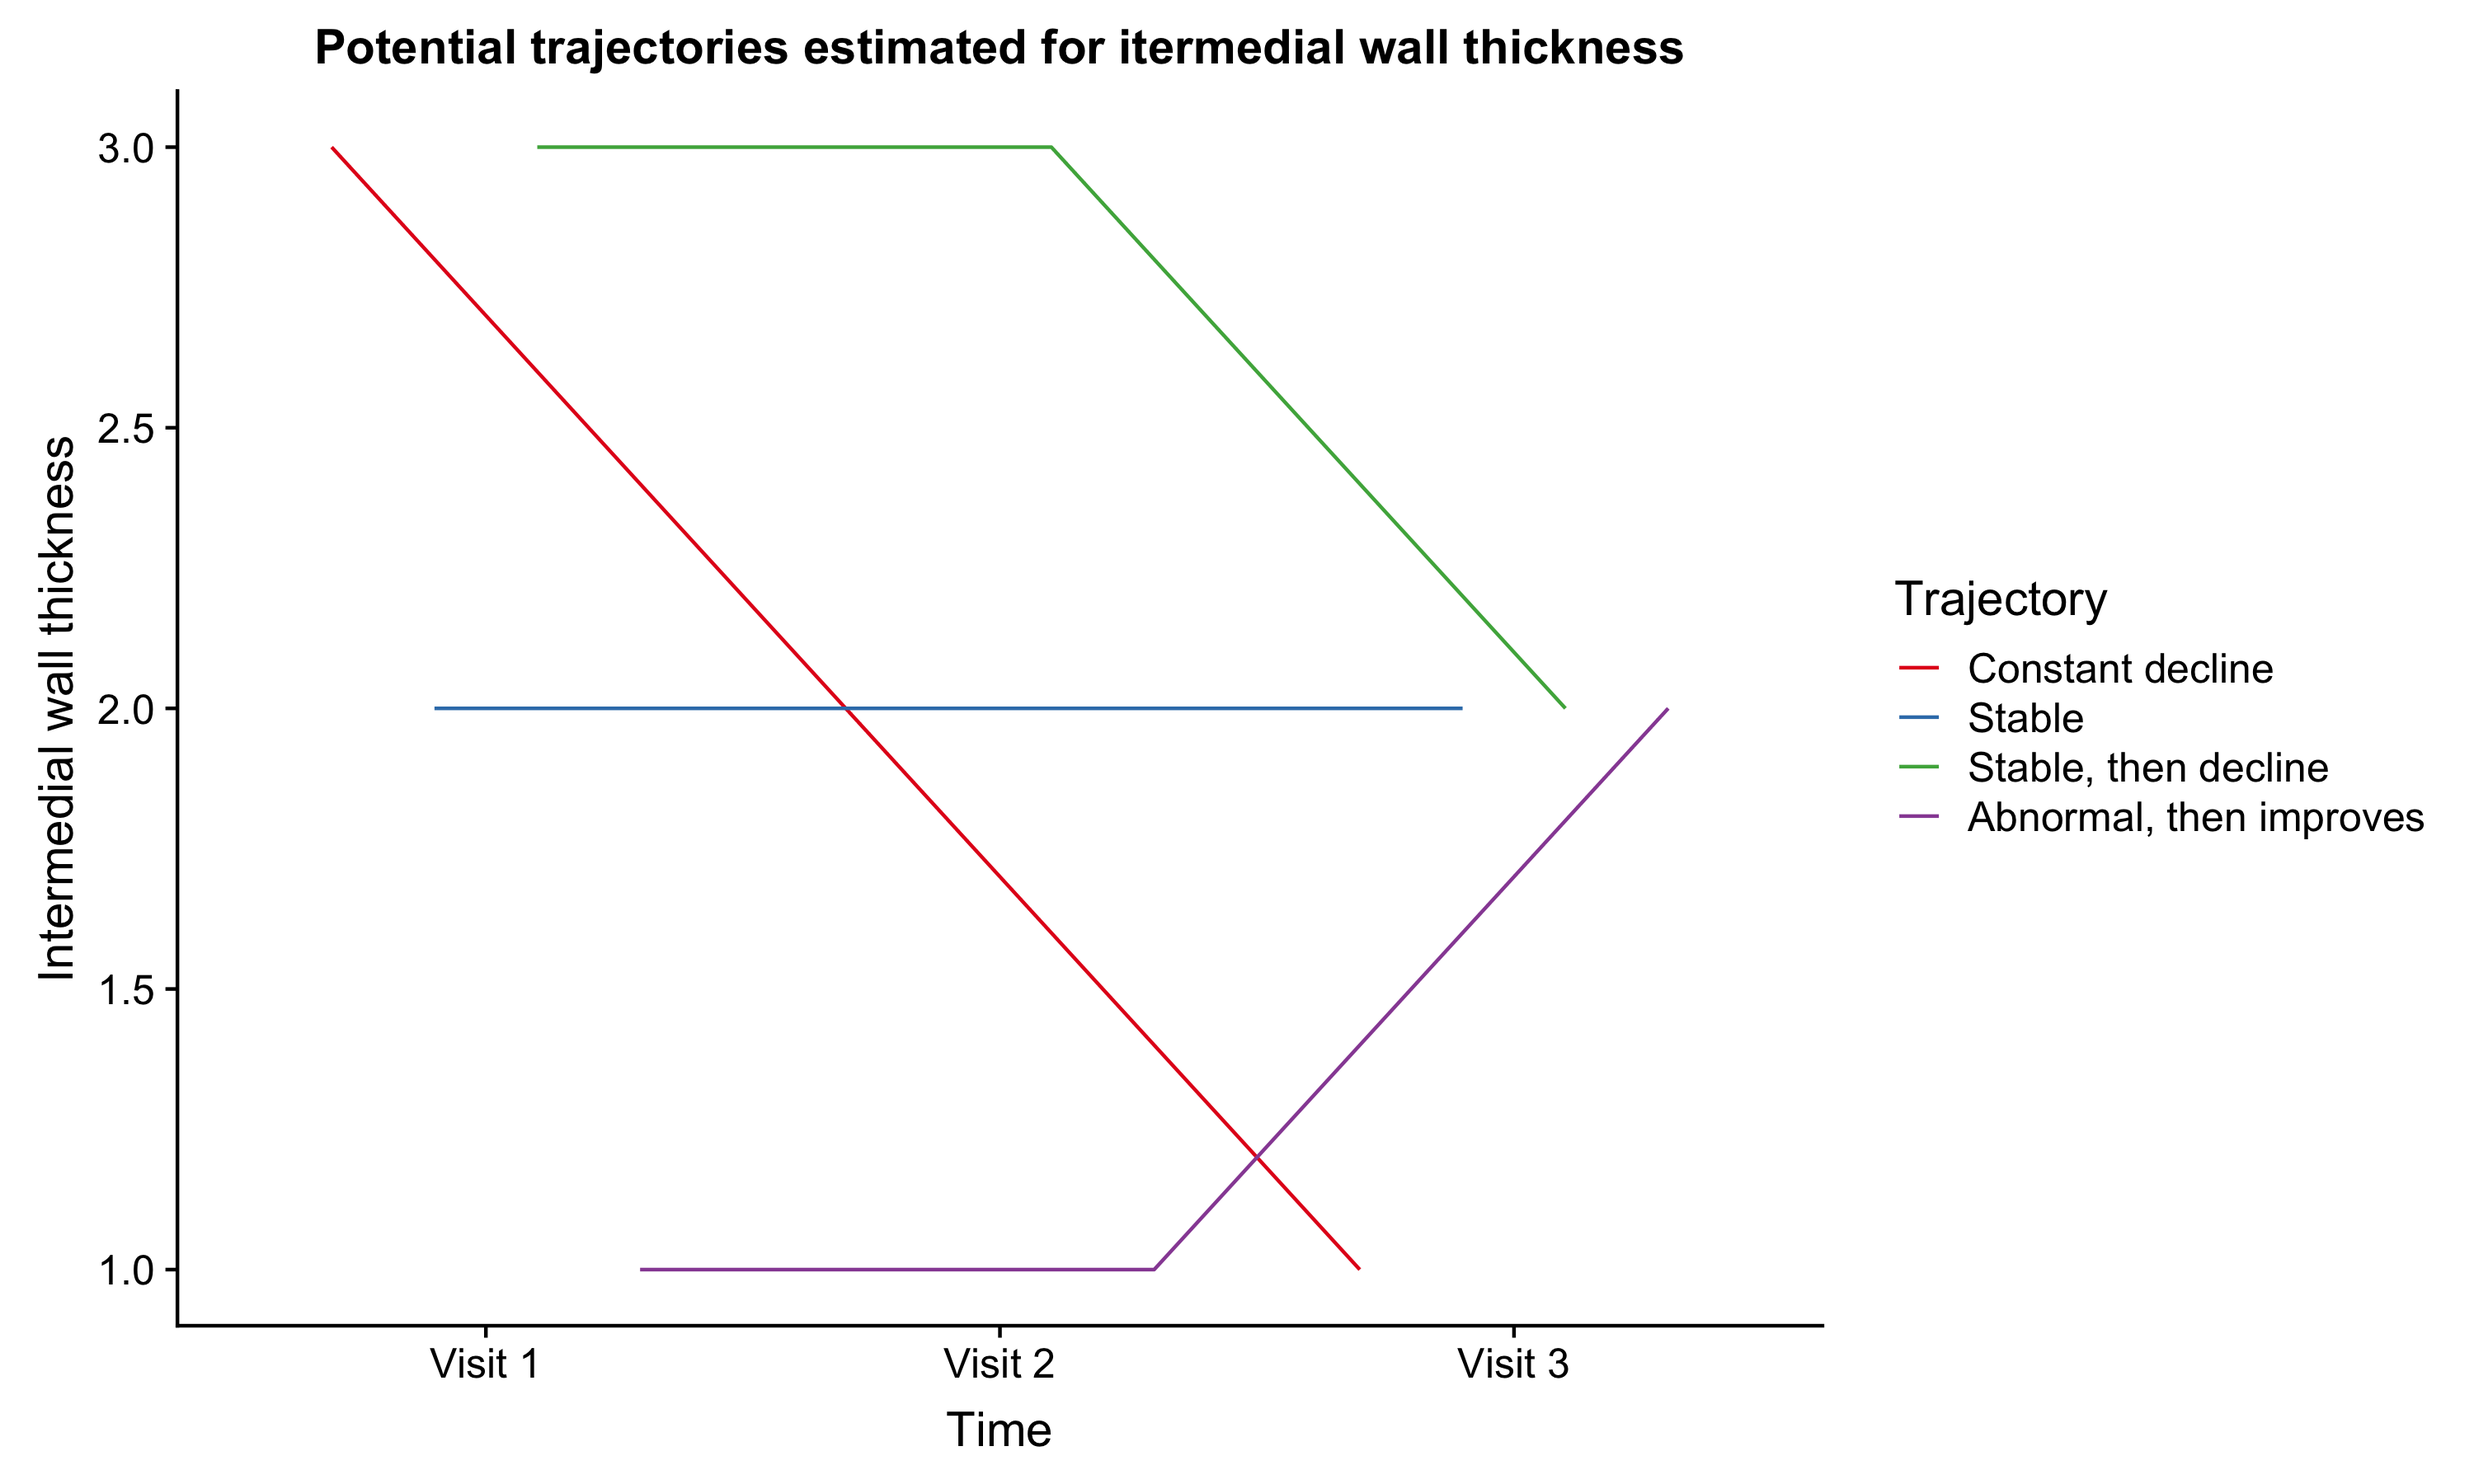
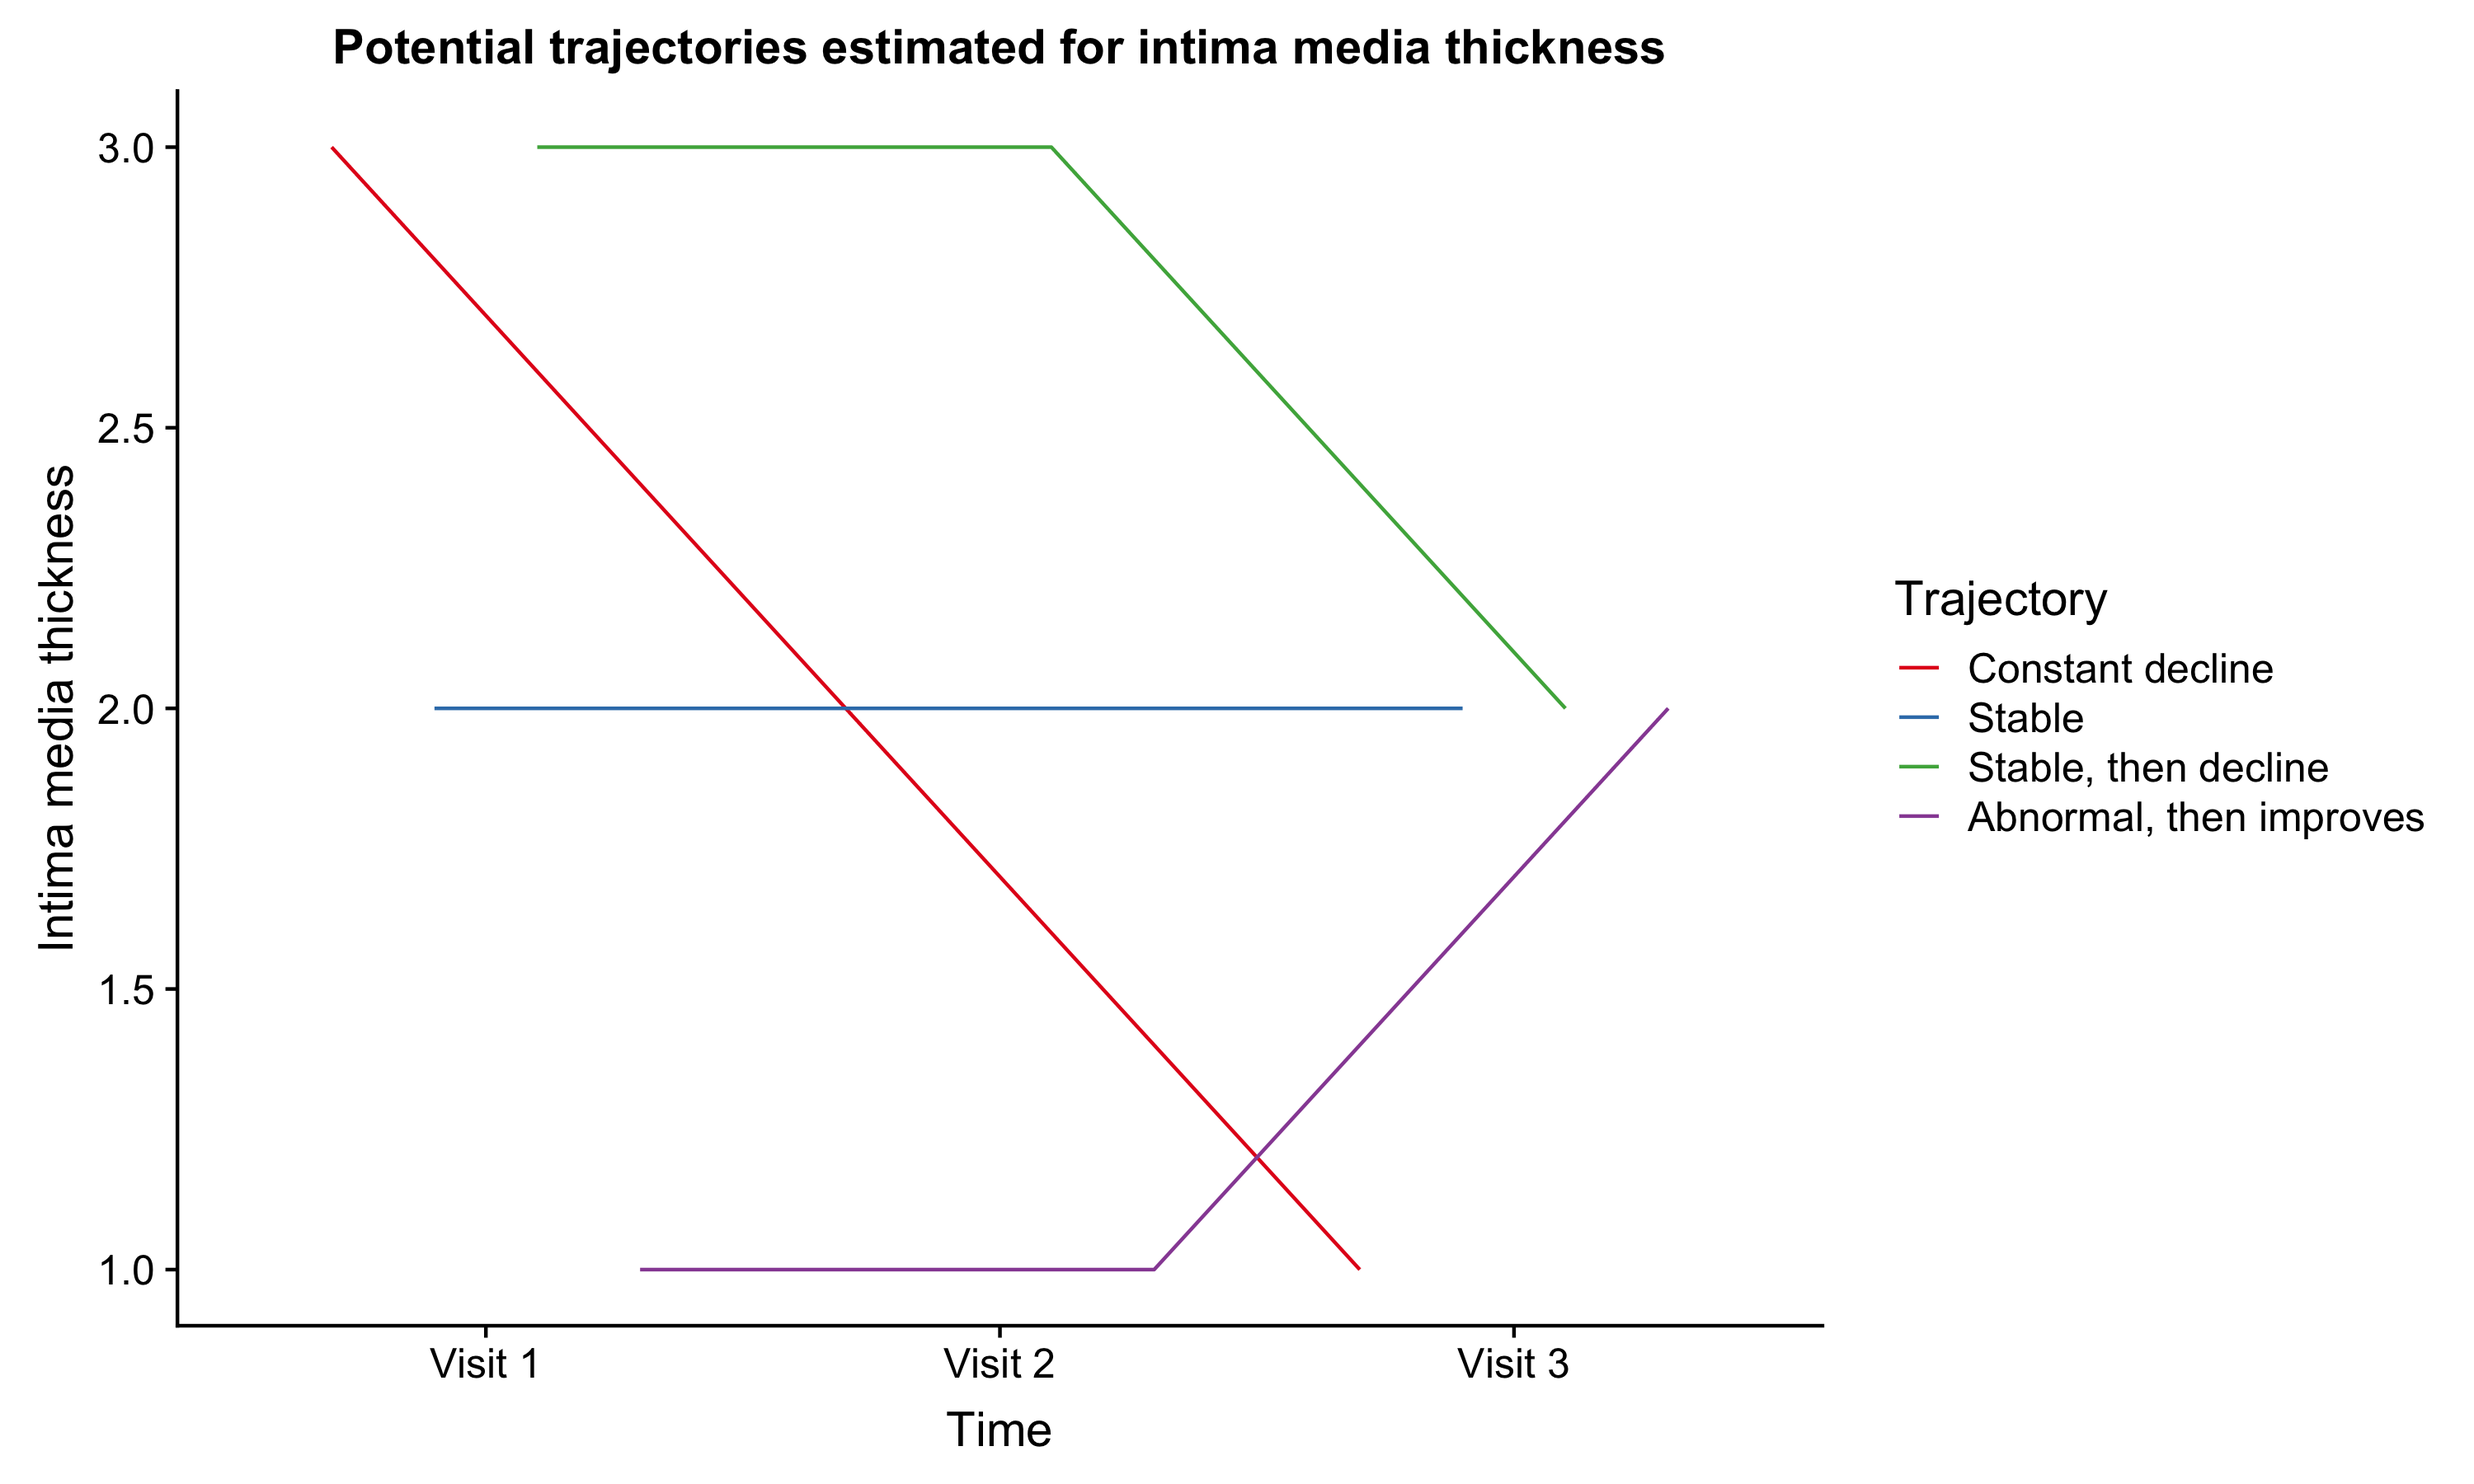
Correct name of intima media thickness

Changed region(s): [[0.124, 0.0, 0.682, 0.0622], [0.0, 0.3111, 0.031, 0.6533]]

diff --git a/index.html b/index.html
@@ -52,7 +52,7 @@ background-size: cover
 
 ---
 
-background-image: url("https://i.pinimg.com/originals/40/4e/e8/404ee85853f8478e056eafc3dc8630ff.jpg")
+background-image: url("https://i.pinimg.com/474x/c8/3c/af/c83caff2d0c55bff8e92c2706e7b5625--its-funny-funny-memes.jpg")
 background-size: cover
 
 ---
